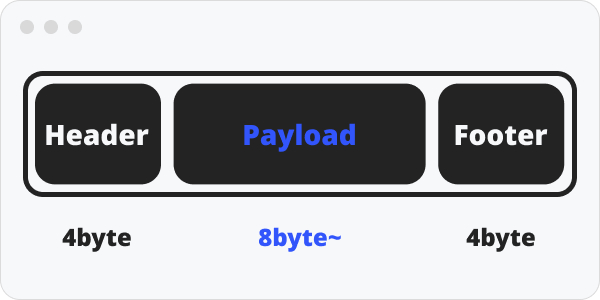
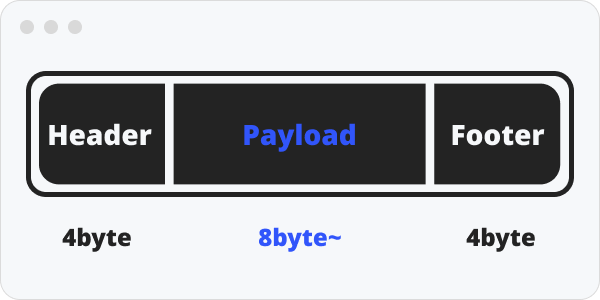
feat: malloc 2 posting 4/29

Changed region(s): [[0.03, 0.24, 0.33, 0.66], [0.69, 0.24, 0.96, 0.66]]

diff --git a/_posts/2025-04-29-mallocLab2.md b/_posts/2025-04-29-mallocLab2.md
@@ -1,0 +1,126 @@
+---
+title: "[CSAPP] malloc lab(2) 묵시적 메모리 할당기를 구현해보자"
+date: 2025-04-29 14:35:00 +0900
+tags: [C언어, CSAPP, malloc]
+categories: [CSAPP]
+image:
+  path: /assets/img/posts/mallocLab/mallocThumb.jpg
+  alt: [malloc 썸네일 이미지]
+excerpt: ""
+pin: true
+---
+
+이 글은 [malloc lab(1)]({{ "/posts/mallocLab1" | relative_url }})에서 이어지는 내용이다.
+
+# 묵시적 메모리 할당기 구현
+
+이 글은 CSAPP에서 재시한 묵시적 메모리 할당기 구현법을 바탕으로 하고 있다.
+
+해당 코드는 책의 코드를 해석하는 수준으로 공부하였기에 CSAPP와 거의 동일 한 코드이다.
+
+# 매크로 정의
+
+솔직히 말하자면 매크로를 이해하는 것이 이 챕터의 가장 큰 난관이다. 매크로만 제대로 이해한다면 다른 부분에서 로직이 어떻게 흘러가는 지 머릿속에 그려나갈 수 있을 것이다.
+
+### 기본 정의
+
+``` c
+// 워드, 더블워드
+# define WSIZE 4
+# define DSIZE 8
+
+// 힙 확장 기본 단위 - 1페이지 == 4KB
+# define CHUNKSIZE (1 << 12) //4096 bytes
+
+```
+
+위의 코드는 딱히 설명할 필요는 없을 것 같다. 필요한 부분은 직접 찾아보길 바란다.
+
+
+### 블록을 읽고 쓰는 매크로 함수들
+
+###### PACK
+이 부분은 아마 [malloc lab(1)]({{ "/posts/mallocLab1#header" | relative_url }})의 **경계태그**, 특히 **"header"** 챕터를 읽고 이해하였다면 쉽게 납득이 갈 거다. 
+  
+```c
+// 헤더 푸터에 들어가는 값 - size와 할당 비트를 합쳐 1개의 워드에 저장
+# define PACK(size, alloc) ((size) | (alloc))
+```
+블록의 크기(size)와 할당여부(alloc)를 받아서 하나의 수로 만들어주는 함수이다.
+
+
+```
+#define [이름] [값]
+```
+일단 # define은 **전처리 지시문**으로 컴파일 전 **전처리 단계**에서 이름 위치에 해당 값을 바꿔치기하라는 것이다.
+
+
+```
+#define 이름(a) ((a)+1)
+```
+함수형 매크로는 함수의 인자를 값에 대입해 계산 결과와 **치환**하라는 것이다. 이때 값은 괄호로 묶고 인자 값에서 사용하는 **함수의 인자** 또한 괄호로 묶어야 한다.
+
+
+`((x) | (y))` 의 의미를 설명해주겠다.
+
+`|`는 비트 OR 연산자 이다.
+
+OR 연산자는 다음과 같은 값을 반환한다.
+
+```
+0 | 0 -> 0
+0 | 1 -> 1
+1 | 0 -> 1
+1 | 1 -> 1
+```
+
+[이전글]({{ "/posts/mallocLab1" | relative_url }})에서 말했듯이 8바이트 정렬이 맞춰져있기에 **블록의 크기(size)**는 비트 단위에서 **하위 3자리**는 **사용하지 않는**다. 그리고 우리는 **할당정보(alloc)**는 1/0으로 비트 **최 하위 1자리**에 표시 한다.
+
+결과적으로 **size와 alloc**은 비트 **단위에서 겹치지 않는** 다는 것이다.
+
+**비트 단위**에서 **겹치지 않으면** 문제(같은 자리에 1이 2개 있으면 1이 반환)가 **발생하지 않기**때문에 겹치지 않는 비트를 더할 수 있다. 이유는 실제 **OR 연산**은 숫자를 더하는 것이 아니라, **비트 단위로 겹치지 않게 정보를 담을** 수 있도록 해주는 방식이기 때문이다. 해당 비트에 대한 **yes or no**를 표현했다라고 생각해도 좋다.
+
+아래는 실제 블록의 정보가 비트 단위에서 어떻게 표현되는 지를 적어봤다.
+  
+```
+11000 -> 24(size)
+00001 -> 1(alloc)
+
+11001 -> 할당된 24바이트크기의 블럭
+```
+ 
+###### GET, PUT
+**GET**과 **PUT**은 핵심중에 핵심이다.
+```c
+// 메모리 읽기
+# define GET(p)         (*(unsigned int *)(p))
+// 메모리에 쓰기
+# define PUT(p, val)    (*(unsigned int *)(p) = (val))
+```
+**GET**은 주소 `p`에 있는 4바이트 값을 읽는 다는 뜻이고 **PUT**은 주소 `p`에 있는 4바이트 값을 `val`로 써넣는다는 뜻이다.
+
+`unsigned int`는 **부호 없는 4바이트 정수(양수)**이다.
+  
+괄호가 많은 관계로 풀어서 한 번 보자.
+  
+일단 함수의 인자와 대치되는 `p`, `val`은 그냥 치환된다고 생각하면 쉽다. 
+  
+그리고 `unsigned int *`는 형변환을 하는 것이다. 형변환의 이유는 대부분 `p`가 **void**로 선언되어 다른 형태로 쉽게 변환되어 사용된 후 실제 주소로 사용될 때는 음수 처리가 되지않는 **unsigned int**로 받아야 하기 떄문이다. 음수 처리 때문에 그냥 `int`를 사용하면 주소가 꼬일 수도 있다.
+```
+int x = 0xffffffff -> -1
+unsigned int y = 0xffffffff -> 엄청 큰 수(모름)
+```
+  
+그리고 값을 나타내는 부분이기에 전체를 한 번 더 괄호로 묶어주었다.
+
+`(*(unsigned int *)(p) = (val))`를 풀어서 보면 **인자로 받은 p를 부호가 없는 4바트 정수형으로 형변환 하여 그 주소의 값을 가져와서 val을 써 넣는 다**라고 해석 할 수 있다.
+
+
+###### GET_SIZE, GET_ALLOC
+```c
+// 헤더 or 푸터 읽고 사이즈 추출하기
+# define GET_SIZE(p)     (GET(p) & ~0x7)
+// 헤더 or 푸터 읽고 주소 추출하기
+# define GET_ALLOC(p)    (GET(p) & 0x1)
+
+```
